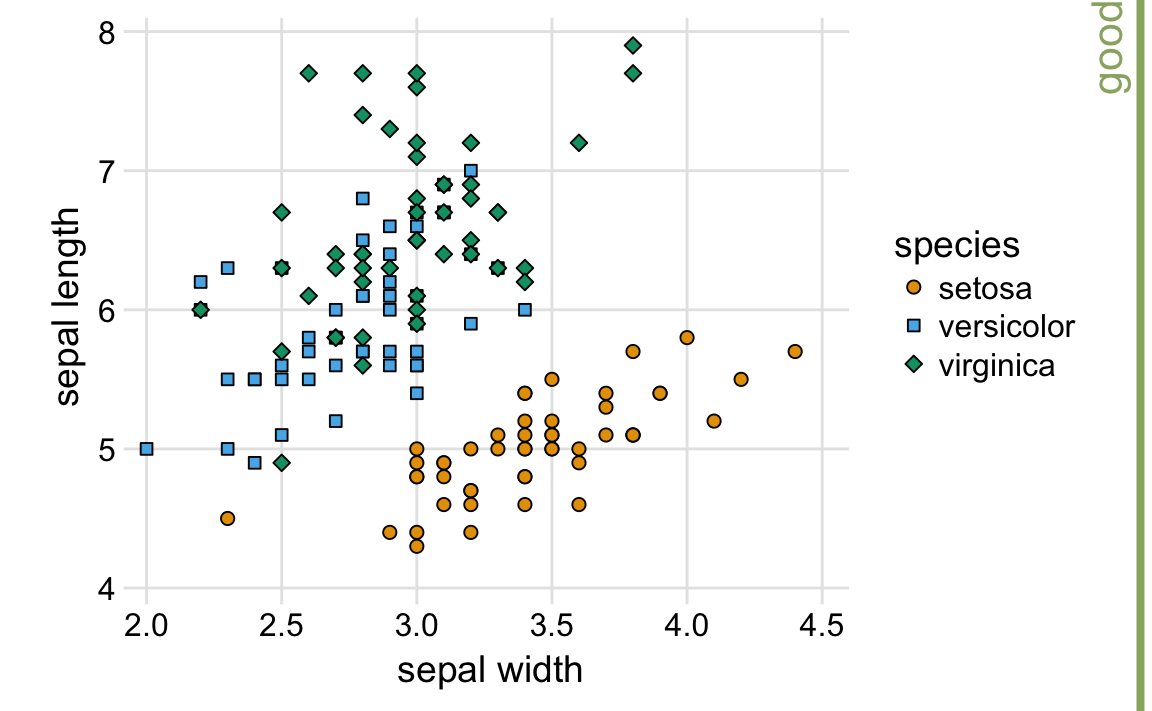
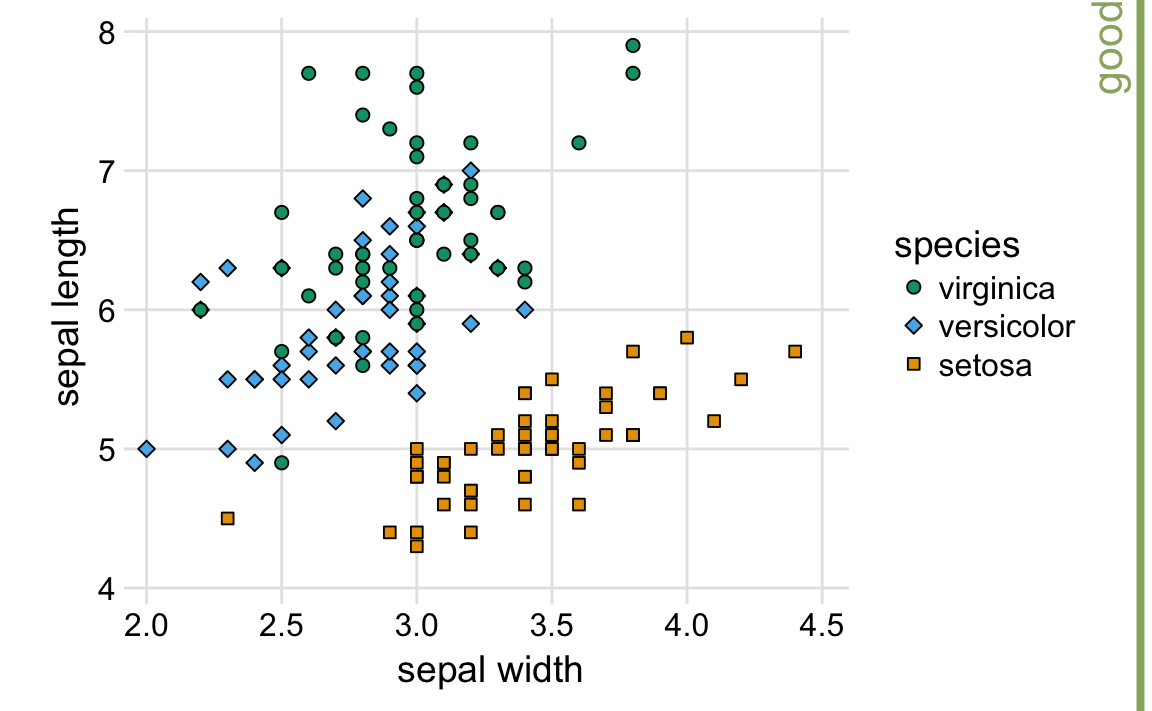
redundant coding

diff --git a/docs/redundant-coding.html b/docs/redundant-coding.html
@@ -31,8 +31,8 @@
   <meta name="apple-mobile-web-app-status-bar-style" content="black">
   
   
-<link rel="prev" href="background-grids.html">
-<link rel="next" href="redundant-coding.html">
+<link rel="prev" href="choosing-colorblind-friendly-color-scales.html">
+<link rel="next" href="handling-overlapping-points.html">
 <script src="libs/jquery-2.2.3/jquery.min.js"></script>
 <link href="libs/gitbook-2.6.7/css/style.css" rel="stylesheet" />
 <link href="libs/gitbook-2.6.7/css/plugin-bookdown.css" rel="stylesheet" />
@@ -95,115 +95,26 @@
           <div class="page-inner">
 
             <section class="normal" id="section-">
-<div id="choosing-colorblind-friendly-color-scales" class="section level1">
-<h1><span class="header-section-number">3</span> Choosing colorblind-friendly color scales</h1>
-<p>When coloring elements in your figures, you need keep in mind that a good proportion of your readers may be colorblind and may not be able to distinguish the colors that look so clearly different to you. You could address this problem by preparing all figures in grayscale, but those figures would look drab and boring to everybody, even the colorblind. Alternatively, you can (and should) employ redundant coding, discussed in more detail in Chapter <a href="redundant-coding.html#redundant-coding">4</a>. However, independent of whether or not you use redundant coding, you should consider using a color scale whose colors are distinguishable even for colorblind people.</p>
-<p>In choosing your color scale, remember that colorblind people are not literally unable to see any colors. Instead, they will typically have difficulty to distinguish certain types of colors, for example red and green (red–green colorblindness) or blue and green (blue-yellow colorblindness). The key to making a colorblind-friendly color scale is to (i) choose colors with different levels of brightness and saturation, and (ii) choose color combinations that tend to look dissimilar even if color vision is partially impaired.</p>
-<p>Throughout this book, I’m using the following color palette, which was developed to work well for all the major types of colorblindness <span class="citation">(Okabe and Ito <a href="#ref-Okabe-Ito-CUD">2008</a>)</span>: <img src="colorblind_files/figure-html/unnamed-chunk-2-1.png" width="816" style="display: block; margin: auto;" /> By providing eight different colors, this palette works for nearly any scenario with discrete colors. You should probably not color-code more than eight different items in a plot anyways.</p>
-<p>A variant of the palette replaces black with gray, if you don’t like to see completely black visual elements: <img src="colorblind_files/figure-html/unnamed-chunk-3-1.png" width="816" style="display: block; margin: auto;" /></p>
-<p>In these palettes, the alphanumeric codes represent the colors in RGB space, encoded as hexadecimals. In many plot libraries and image-manipulation programs, you can just enter these codes directly. If your software does not take hexadecimals directly, you can also use Table <a href="choosing-colorblind-friendly-color-scales.html#tab:color-codes">3.1</a>.</p>
-<table>
-<caption><span id="tab:color-codes">Table 3.1: </span> Colorblind-friendly color scale, developed by <span class="citation">Okabe and Ito (<a href="#ref-Okabe-Ito-CUD">2008</a>)</span>.</caption>
-<thead>
-<tr class="header">
-<th align="left">Name</th>
-<th align="left">Hex code</th>
-<th align="left">Hue</th>
-<th align="left">C, M, Y, K (%)</th>
-<th align="left">R, G, B (0-255)</th>
-<th align="left">R, G, B (%)</th>
-</tr>
-</thead>
-<tbody>
-<tr class="odd">
-<td align="left">black</td>
-<td align="left">#000000</td>
-<td align="left">-</td>
-<td align="left">0, 0, 0, 100</td>
-<td align="left">0, 0, 0</td>
-<td align="left">0, 0, 0</td>
-</tr>
-<tr class="even">
-<td align="left">gray</td>
-<td align="left">#999999</td>
-<td align="left">-</td>
-<td align="left">0, 0, 0, 60</td>
-<td align="left">153, 153, 153</td>
-<td align="left">60, 60, 60</td>
-</tr>
-<tr class="odd">
-<td align="left">orange</td>
-<td align="left">#E69F00</td>
-<td align="left">41°</td>
-<td align="left">0, 50, 100, 0</td>
-<td align="left">230, 159, 0</td>
-<td align="left">90, 60, 0</td>
-</tr>
-<tr class="even">
-<td align="left">sky blue</td>
-<td align="left">#56B4E9</td>
-<td align="left">202°</td>
-<td align="left">80, 0, 0, 0</td>
-<td align="left">86, 180, 233</td>
-<td align="left">35, 70, 90</td>
-</tr>
-<tr class="odd">
-<td align="left">bluish green</td>
-<td align="left">#009E73</td>
-<td align="left">164°</td>
-<td align="left">97, 0, 75, 0</td>
-<td align="left">0, 158, 115</td>
-<td align="left">0, 60, 50</td>
-</tr>
-<tr class="even">
-<td align="left">yellow</td>
-<td align="left">#F0E442</td>
-<td align="left">56°</td>
-<td align="left">10, 5, 90, 0</td>
-<td align="left">240, 228, 66</td>
-<td align="left">95, 90, 25</td>
-</tr>
-<tr class="odd">
-<td align="left">blue</td>
-<td align="left">#0072B2</td>
-<td align="left">202°</td>
-<td align="left">100, 50, 0, 0</td>
-<td align="left">0, 114, 178</td>
-<td align="left">0, 45, 70</td>
-</tr>
-<tr class="even">
-<td align="left">vermilion</td>
-<td align="left">#D55E00</td>
-<td align="left">27°</td>
-<td align="left">0, 80, 100, 0</td>
-<td align="left">213, 94, 0</td>
-<td align="left">80, 40, 0</td>
-</tr>
-<tr class="odd">
-<td align="left">reddish purple</td>
-<td align="left">#CC79A7</td>
-<td align="left">326°</td>
-<td align="left">10, 70, 0, 0</td>
-<td align="left">204, 121, 167</td>
-<td align="left">80, 60, 70</td>
-</tr>
-</tbody>
-</table>
+<div id="redundant-coding" class="section level1">
+<h1><span class="header-section-number">4</span> Redundant coding</h1>
+<p><em>Need some intro text here about the concept of redundant coding, showing the same information with multiple visua elements that reinforce each other.</em></p>
+<p>Let’s consider this example, which demonstrates an very common visualization mistake.</p>
+<p><img src="redundant_coding_files/figure-html/unnamed-chunk-6-1.png" width="576" style="display: block; margin: auto;" /></p>
+<p>The figure contains four lines, representing the stock prices of four different companies. The lines are color coded using a colorblind-friendly color scale. So it should be relatively straightfoward to associate each line with the corresponding company. Yet it is not. The problem here is that the data lines have a clear visual order. The yellow line, representing Facebook, is clearly the highest line, and the black line, representing Apple, is clearly the lowest, with Alphabet and Microsoft inbetween, in that order. Yet the order of the four companies in the legend is Alphabet, Apple, Facebook, Microsoft (alphabetic order). Thus, the perceived order of the data lines differs from the order of the companies in the legend, and it takes a surprising amount of effort to match data lines with company names.</p>
+<p>This problem arises commonly with plotting software that autogenerates legends, as is the case for instance with R’s ggplot2. The plotting software has no concept of the visual order that the viewer will perceive in the data, and it will instead sort the legend by some other order, most commonly alphabetical. We can fix this problem by manually reordering the entries in the legend so they match the preceived ordering in the data.</p>
+<p><img src="redundant_coding_files/figure-html/unnamed-chunk-7-1.png" width="576" style="display: block; margin: auto;" /></p>
+<p>While the above figure is a major improvement, we can still do better. Even with the correct ordering, a legend imposes an unnecessary mental burden on the viewer of the figure. The viewer has to match the colors in the legend to the colors in the figure and translate which company name goes with which data line. It is better to get rid of the legend altogether and instead draw the company names right next to the data lines.</p>
+<p><img src="redundant_coding_files/figure-html/unnamed-chunk-8-1.png" width="576" style="display: block; margin: auto;" /></p>
+<p>The general principle is this: <strong>Whenever possible, design your figures so they don’t need a legend.</strong></p>
 
-</div>
-<h3>References</h3>
-<div id="refs" class="references">
-<div id="ref-Okabe-Ito-CUD">
-<p>Okabe, M., and K. Ito. 2008. “Color Universal Design (CUD): How to Make Figures and Presentations That Are Friendly to Colorblind People.” <a href="http://jfly.iam.u-tokyo.ac.jp/color/" class="uri">http://jfly.iam.u-tokyo.ac.jp/color/</a>.</p>
-</div>
 </div>
             </section>
 
           </div>
         </div>
       </div>
-<a href="background-grids.html" class="navigation navigation-prev " aria-label="Previous page"><i class="fa fa-angle-left"></i></a>
-<a href="redundant-coding.html" class="navigation navigation-next " aria-label="Next page"><i class="fa fa-angle-right"></i></a>
+<a href="choosing-colorblind-friendly-color-scales.html" class="navigation navigation-prev " aria-label="Previous page"><i class="fa fa-angle-left"></i></a>
+<a href="handling-overlapping-points.html" class="navigation navigation-next " aria-label="Next page"><i class="fa fa-angle-right"></i></a>
     </div>
   </div>
 <script src="libs/gitbook-2.6.7/js/app.min.js"></script>

diff --git a/docs/redundant_coding.md b/docs/redundant_coding.md
@@ -3,13 +3,14 @@
 
 
 
-*Some intro text here*
-
-<img src="redundant_coding_files/figure-html/unnamed-chunk-3-1.png" width="576" style="display: block; margin: auto;" />
+*Need some intro text here about the concept of redundant coding, showing the same information with multiple visua elements that reinforce each other.*
 
 
 
-<img src="redundant_coding_files/figure-html/unnamed-chunk-4-1.png" width="576" style="display: block; margin: auto;" />
+
+
+
+
 
 
 
